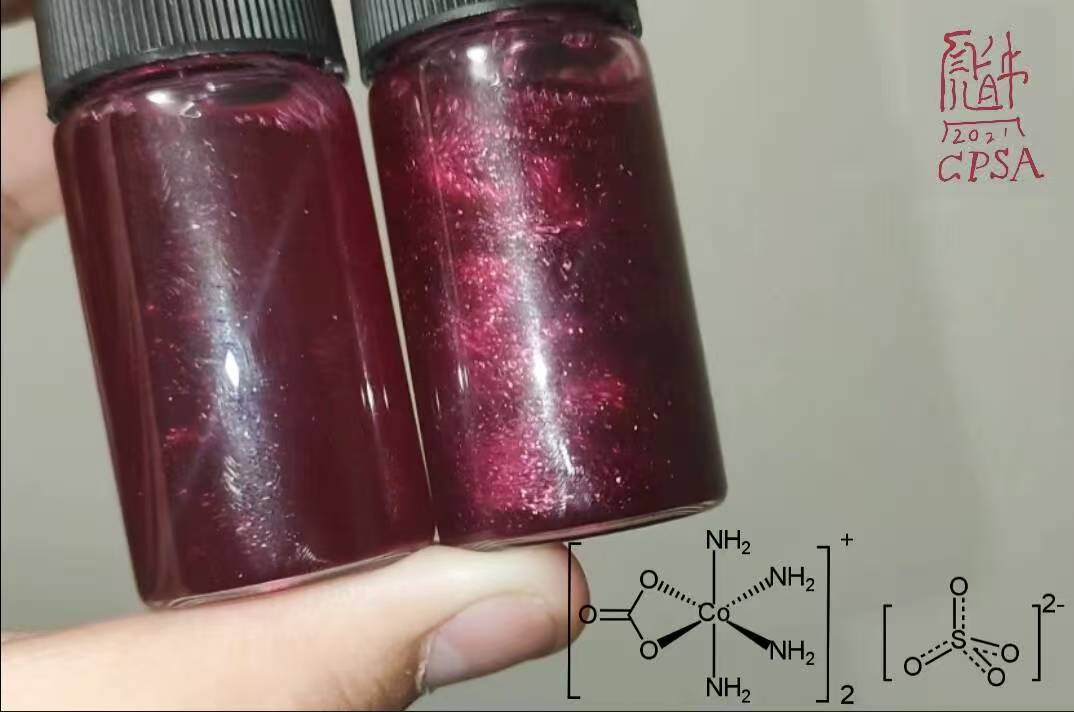
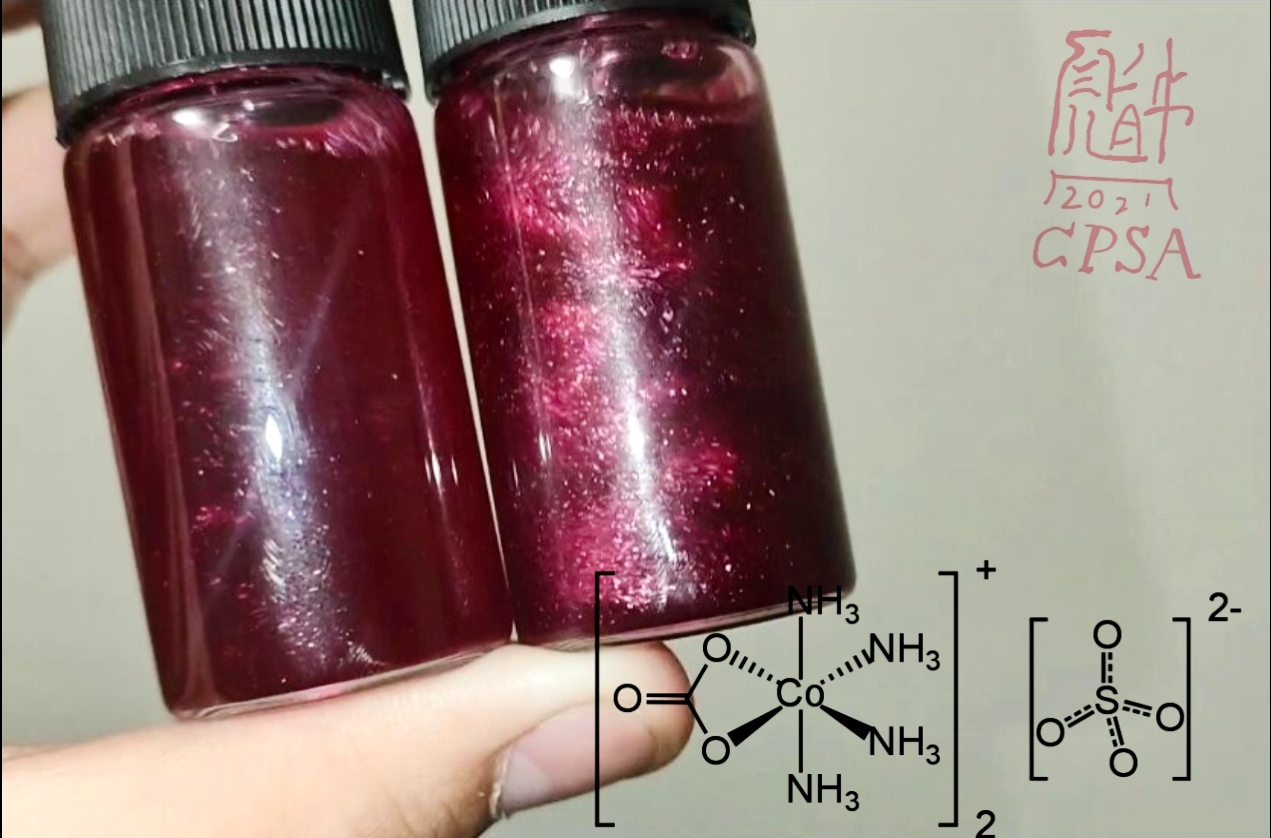
20260808v1

diff --git a/portfolio.js b/portfolio.js
@@ -22,7 +22,8 @@
                 { img: '作品6.webp', author: '迷路的野指针' },
                 { img: '作品7.webp', author: '迷路的野指针' },
                 { img: '作品57.webp', author: '紫色硫酸铜' },
-                { img: '作品144.webp', author: '食堂人民科学协会-荣' }
+                { img: '作品144.webp', author: '食堂人民科学协会-荣' },
+                { img: '作品152.webp', author: '紫色硫酸铜' }
             ]
         },
         {
@@ -165,6 +166,7 @@
                 { img: '作品51.webp', author: '青于', description: '硫酸镍' },
                 { img: '作品69.webp', author: '紫色硫酸铜', description: '硫酸镍' },
                 { img: '作品65.webp', author: '关关', description: '硫酸铝钾' },
+                { img: '作品151.webp', author: '紫色硫酸铜', description: '硫酸铝钾' },
                 { img: '作品138.webp', author: 'Kerbal123', description: '硫氰酸乙二胺镍' },
                 { img: '作品60.webp', author: '青于', description: '硝酸甜菜碱铜' },
                 { img: '作品67.webp', author: 'Kerbal123', description: '硝酸脲铁' },
